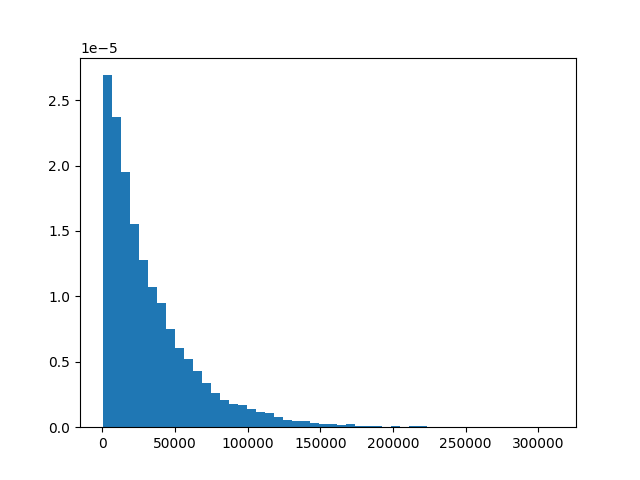
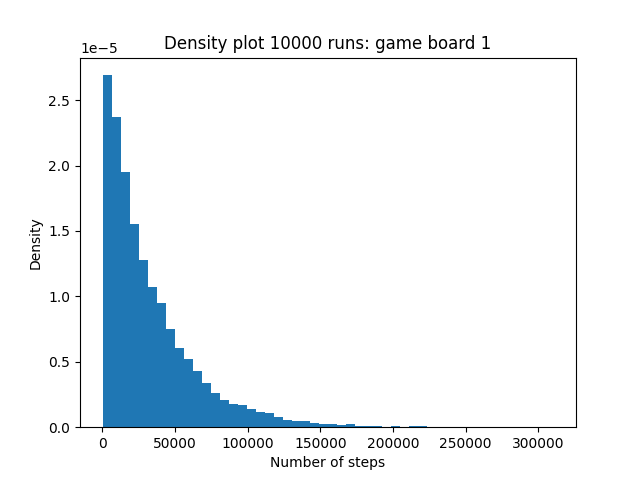
added labels and title to plot

Changed region(s): [[0.25, 0.0625, 0.75, 0.125], [0.4062, 0.9375, 0.5938, 1.0], [0.0312, 0.4688, 0.0625, 0.5625]]

diff --git a/plot.py b/plot.py
@@ -1,7 +1,7 @@
 import matplotlib.pyplot as plt
 import numpy as np
 
-with open("output/12x12_7_random/Rushhour12x12_7_random_1000.txt", "r") as f:
+with open("output/6x6_1_random/Rushhour6x6_1_random_10000.txt", "r") as f:
     lines = f.readlines()
 
 new_list = [int(i.split('\n', 1)[0]) for i in lines]
@@ -9,5 +9,10 @@ print(new_list)
 print(max(new_list))
 
 plt.hist(new_list, density=True, bins=50)
-plt.savefig("output/12x12_7_random/Rushhour12x12_7_random_1000.png")
+plt.title("Density plot 10000 runs: game board 1")
+plt.xlabel("Number of steps")
+plt.ylabel("Density")
+plt.savefig("output/6x6_1_random/Rushhour6x6_1_random_10000.png")
 
+import statistics
+print(statistics.mean(new_list), "mean")
